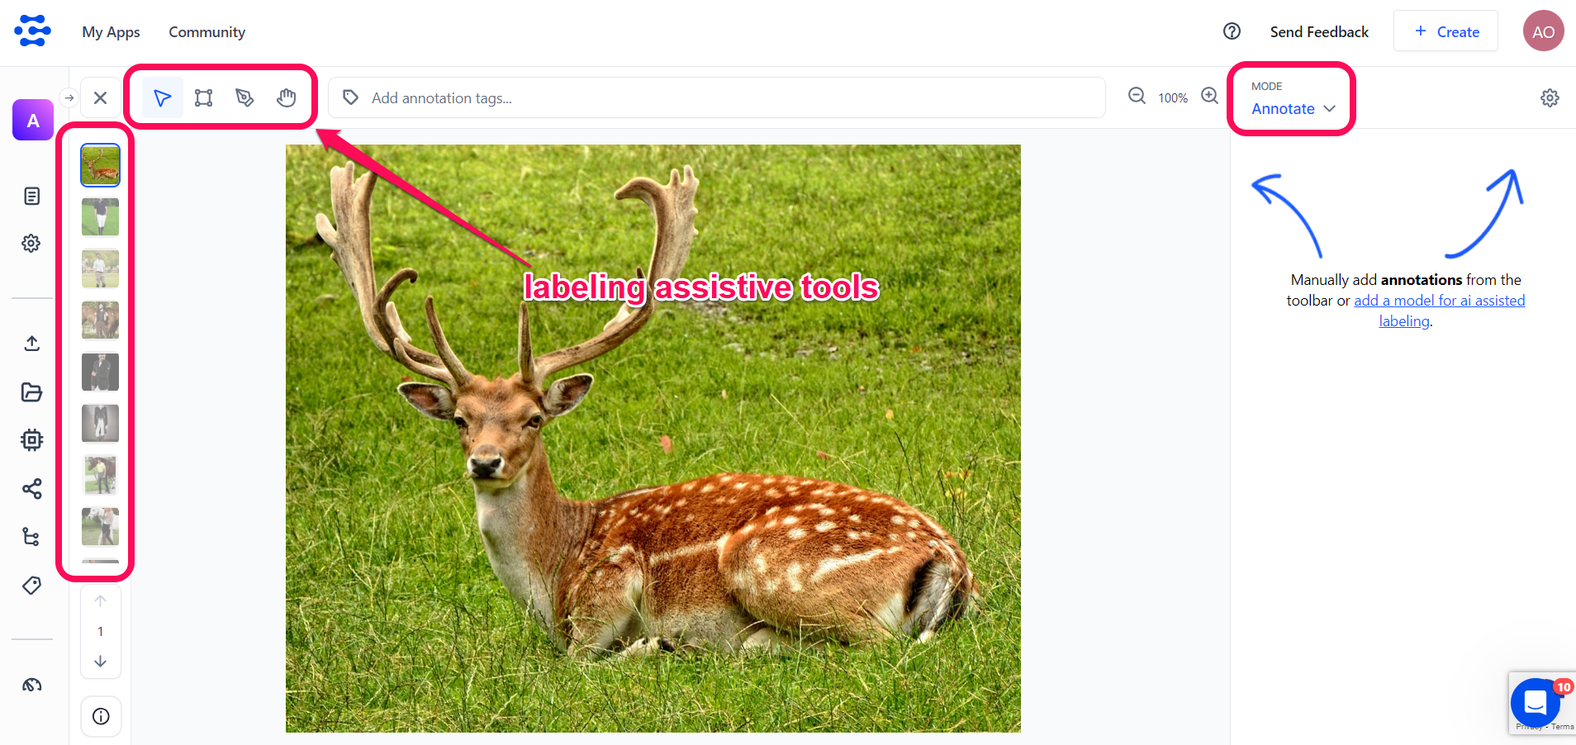
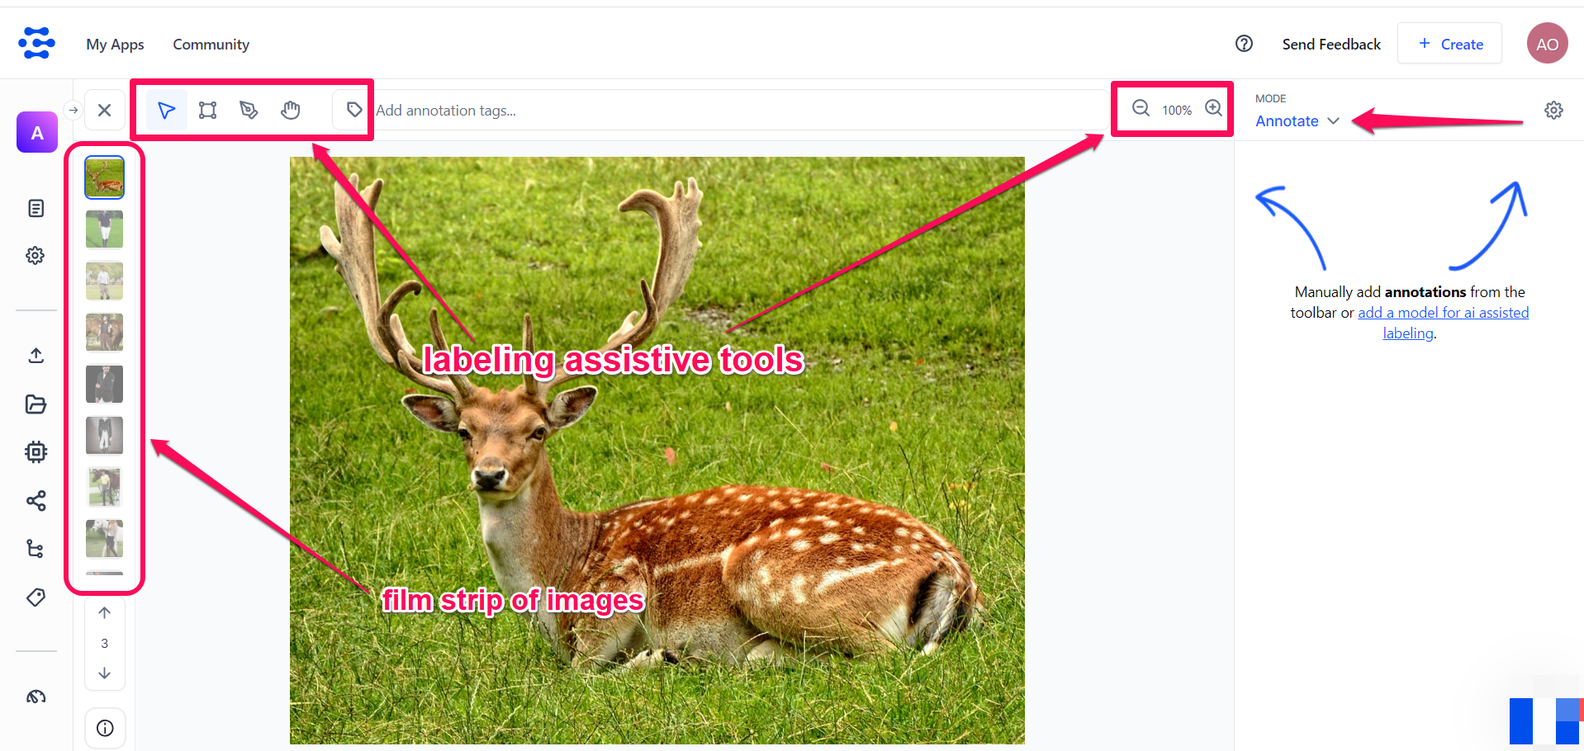
made some updates

diff --git a/docs/product-updates/changelog/release104.md b/docs/product-updates/changelog/release104.md
@@ -19,24 +19,74 @@ draft: true
 | :---: | :---: | :---: | :---: |
 | ![new-feature](/img/new_feature.jpg) |![improvement](/img/improvement.jpg) | ![bug](/img/bug.jpg) | ![enterprise](/img/enterprise.jpg) |
 
-
 ## Input-Manager
 
 |Status                                |Change                  |Details                    |
 |--------------------------------------|------------------------|---------------------------|
-|![new-feature](/img/new_feature.jpg) | Added symmetric and asymmetric search capabilities within the Input-Manager | <ul><li> Symmetric search allows users to find text inputs that closely resemble other text inputs, facilitating easy identification of similar content. On the other hand, asymmetric search empowers users to search for text inputs that effectively answer specific query questions, enhancing the precision and relevance of search results. </li></ul>|
+|![new-feature](/img/new_feature.jpg) | Added symmetric and asymmetric text search capabilities within the Input-Manager | <ul><li> Symmetric search allows users to find text inputs that closely resemble other text inputs, facilitating easy identification of similar content. On the other hand, asymmetric search empowers users to search for text inputs that effectively answer specific query questions, enhancing the precision and relevance of search results. </li></ul>|
+|![bug](/img/bug.jpg)|Fixed an issue with visual searches| <ul><li> Previously, visual searches for inputs on the Input-Manager were sometimes slow. We fixed it. </li></ul> |
+|![bug](/img/bug.jpg)|Fixed issues with concepts used for searching inputs on the Input-Manager|<ul><li>The tags or concepts used for performing searches had undergone visual changes. Additionally, it was not possible to delete tags individually; the only way was to remove the entire string in the search field. We fixed these issues.</li></ul>|
 
 ## New Published Models
 
 |Status                                |Change                  |Details                    |
 |--------------------------------------|------------------------|---------------------------|
-|![new-feature](/img/new_feature.jpg)|Published new models <br/><br/>_(Clarifai-hosted models are the ones we host within our Clarifai Cloud. Wrapped models are those hosted externally, but we deploy them on our platform using their third-party API keys)_|  <ul><li>Wrapped [Command-R+](https://clarifai.com/cohere/generate/models/command-r-plus), a highly efficient, multilingual, enterprise-grade LLM optimized for real-world business applications, boasting advanced RAG capabilities and a 128k-token context window. </li><li>Wrapped [Gemini 1.5 Pro](https://clarifai.com/gcp/generate/models/gemini-1_5-pro), a powerful, efficient LLM with 1 million long-context window, enabling advanced reasoning and comprehension across various data types. </li><li>Wrapped [Mixtral-8x22B](https://clarifai.com/mistralai/completion/models/mixtral-8x22B), the latest and largest Mixture of Expert LLM from Mistral AI. It's a state-of-the-art machine learning model using Mixture 8 of Experts (MoE) 22b models. </li><li>Wrapped [Qwen1.5-32B](https://clarifai.com/qwen/qwenLM/models/qwen1_5-32B-chat), a model that provides competitive AI performance with optimized efficiency, making it a strong choice for diverse, multilingual applications. </li><li>Clarifai-hosted [Gemma-1.1-7b-it](https://clarifai.com/gcp/generate/models/gemma-1_1-7b-it), a lightweight, decoder-only LLM trained on 6 trillion tokens of diverse text data, suitable for various text generation tasks with improved quality and safety measures. </li><li>Clarifai-hosted [Llama-3-8B-Instruct](https://clarifai.com/meta/Llama-3/models/Llama-3-8B-Instruct). Llama 3 instruction-tuned models are optimized for dialogue use cases and outperform many of the available open source chat LLMs on common industry benchmarks.  </li><li>Wrapped [Llama-3-70B-Instruct](https://clarifai.com/meta/Llama-3/models/llama-3-70B-Instruct), an advanced, scalable language model designed for diverse applications, offering state-of-the-art performance in coding, reasoning, and multi-use conversational capabilities. </li><li>Wrapped [Llama-3-70B](https://clarifai.com/meta/Llama-3/models/llama-3-70B). Llama-3 is a state-of-the-art large language model designed for enhanced reasoning and coding. It has a  broad application across multiple languages and tasks. </li></ul>| 
+|![new-feature](/img/new_feature.jpg)|Published new models <br/><br/>_(Clarifai-hosted models are the ones we host within our Clarifai Cloud. Wrapped models are those hosted externally, but we deploy them on our platform using their third-party API keys)_|  <ul><li>Wrapped [Command-R+](https://clarifai.com/cohere/generate/models/command-r-plus), a highly efficient, multilingual, enterprise-grade LLM optimized for real-world business applications, boasting advanced RAG capabilities and a 128k-token context window. </li><li>Wrapped [Gemini 1.5 Pro](https://clarifai.com/gcp/generate/models/gemini-1_5-pro), a powerful, efficient LLM with 1 million long-context window, enabling advanced reasoning and comprehension across various data types. </li><li>Wrapped [Mixtral-8x22B](https://clarifai.com/mistralai/completion/models/mixtral-8x22B), the latest and largest Mixture of Expert LLM from Mistral AI. It's a state-of-the-art machine learning model using Mixture 8 of Experts (MoE) 22b models. </li><li>Wrapped [Qwen1.5-32B](https://clarifai.com/qwen/qwenLM/models/qwen1_5-32B-chat), a model that provides competitive AI performance with optimized efficiency, making it a strong choice for diverse, multilingual applications. </li><li>Clarifai-hosted [Gemma-1.1-7b-it](https://clarifai.com/gcp/generate/models/gemma-1_1-7b-it), a lightweight, decoder-only LLM trained on 6 trillion tokens of diverse text data, suitable for various text generation tasks with improved quality and safety measures. </li><li>Clarifai-hosted [Llama-3-8B-Instruct](https://clarifai.com/meta/Llama-3/models/Llama-3-8B-Instruct). Llama 3 instruction-tuned models are optimized for dialogue use cases and outperform many of the available open source chat LLMs on common industry benchmarks.  </li><li>Wrapped [Llama-3-70B-Instruct](https://clarifai.com/meta/Llama-3/models/llama-3-70B-Instruct), an advanced, scalable language model designed for diverse applications, offering state-of-the-art performance in coding, reasoning, and multi-use conversational capabilities. </li><li>Wrapped [Llama-3-70B](https://clarifai.com/meta/Llama-3/models/llama-3-70B). Llama-3 is a state-of-the-art large language model designed for enhanced reasoning and coding. It has a  broad application across multiple languages and tasks. </li><li>Clarifai-hosted [LLaVA-v1.6-Mistral-7B](https://clarifai.com/liuhaotian/llava/models/llava-v1_6-mistral-7b), a high-performance, efficient, and cross-lingual large multimodal model, boasting state-of-the-art capabilities in visual reasoning, OCR, and zero-shot Chinese multimodal understanding. </li><li>Clarifai-hosted [LLaVA-1.5-7b](https://clarifai.com/liuhaotian/llava/models/llava-1_5-7b), a state-of-the-art language vision model that represents a significant advancement in the field of multimodal artificial intelligence. </li></ul>| 
+
+## New Published Templates
+
+|Status                                |Change                  |Details                    |
+|--------------------------------------|------------------------|---------------------------|
+| ![new-feature](/img/new_feature.jpg)  | Published new [app templates](https://docs.clarifai.com/clarifai-basics/app-templates)   | <ul><li>Published [Text Moderation Template](https://clarifai.com/clarifai/text-moderation), which provides ready-to-use workflows and models, leveraging NLP Models and LLMs to automatically monitor and detect inappropriate or harmful text content.</li><li>Published [Sentimental Analysis Template](https://clarifai.com/clarifai/sentiment-analysis), which provides a guide for sentimental analysis and comes with several ready-to-use sentimental analysis workflows and models dealing with different use cases, leveraging different NLP models and LLMs.</li><li>Published [Chatbot Template](https://clarifai.com/clarifai/chatbot-template), which allows you to develop AI chatbots swiftly using Clarifai LLMs, offering personalized assistance and integrating external data with RAG framework for enhanced capabilities. </li><li>Published [Image Moderation Template](https://clarifai.com/clarifai/image-moderation), which provides diverse AI-powered workflows for automatically filtering and categorizing inappropriate or harmful images based on various criteria. </li><li>Published [Content Generation Template](https://clarifai.com/clarifai/content-generation-template), which empowers users to efficiently create diverse, tailored text, from emails and blogs to social media content and stories, enhancing communication and creativity. </li><li> Published [Document Summarization Template](https://clarifai.com/clarifai/document-summarization), which is an app template for document summarization — supports 3 levels that start with Novice and end up with Expert.</li><li> Published [RAG Template](https://clarifai.com/clarifai/rag-template), which streamlines the creation of Retrieval-Augmented Generation (RAG) applications with Clarifai, enhancing LLMs with external knowledge for accurate, up-to-date information generation. </li></ul> |
+
+## Python SDK
+
+|Status                                |Change                  |Details                    |
+|--------------------------------------|------------------------|---------------------------|
+|  ![new-feature](/img/new_feature.jpg) | Added new features. Learn more about them [here](https://github.com/Clarifai/clarifai-python/blob/master/CHANGELOG.md).  | <ul><li>We added a flag to download a model. If the `export_dir` parameter is provided in `Model().export()`, the exported model will be saved in the specified directory. Otherwise, the export status will be shown. </li><li>Added support for Label IDs in Dataloaders (using the `label_ids` parameter) and `get_proto` functions in the Inputs class.</li><li>Implemented pagination feature in Search. Added `pagination` parameter in the `Search()` class and included `per_page` and `page_no` parameters in the `Search().query()` method.</li><li>Added algorithm parameter to `Search()`. </li><li>Added root certificate support to establish secure gRPC connections by including a `root_certificates_path` parameter in all relevant classes and authentication helpers. Also, updated gRPC to the latest version.</li><li>Added missing VERSION and `requirements.txt` files to `setup.py.`</li></ul> |
+| ![improvement](/img/improvement.jpg) | Made some improvements | <ul><li>Changed logger for `Inputs().upload_annotations` to display full details of failed annotations. </li><li>Updated the model upload CLI documentation.</li><li>Limited the maximum upload batch size for `Inputs().upload_inputs()` function. Also addressed the inconsistency in the model version ID parameter between `App.model()` and `Model()`.</li><li>Removed runners from the SDK.</li></ul> |
+| ![bug](/img/bug.jpg) | Fixed some bugs   | <ul><li>Fixed RAG upload bug by updating llama-index-core version to 0.10.24 in the `ImportError` message. </li> <li>Fixed a `RAG.setup()` bug where if a specific workflow was deleted and another workflow with the same ID was created, by adding a timestamp while creating a new prompter model.</li> <li>Fixed `RAG.upload()` to support uploading a folder of text files.</li> <li>Fixed the training status bug by removing the constraint of users specifying `model_type_id` for training_logs and instead using `load_info()` to get model version details.</li> <li>Fixed a create workflow bug that occurred due to the change in the model version ID parameter.</li> <li>Fixed unnecessary infra alerts by adding a wait time before deleting a model in model training tests.</li> </ul>  |
+
+
+## Node SDK
+
+|Status                                |Change                  |Details                    |
+|--------------------------------------|------------------------|---------------------------|
+| ![new-feature](/img/new_feature.jpg) | Added some features | <ul><li> Added a new `Dataset` class with several methods for handling datasets, including creating and deleting versions, listing versions, and uploading data from a folder or a CSV file.</li><li> Added several new methods to the `Input` class for handling inputs, including methods for bulk uploading, waiting for inputs, deleting failed inputs, and retrying uploads.</li><li>Added several new methods and properties to the `Search` class, including support for different search algorithms and metrics, and improved handling of queries and pagination.</li></ul> |
+| ![improvement](/img/improvement.jpg) | Made an improvement| <ul><li> Since the `uuidv4` package has been deprecated in npm, we replaced it with the recommended `uuid` package.</li></ul> |
 
 ## Models
 
 |Status                                |Change                  |Details                    |
 |--------------------------------------|------------------------|---------------------------|
 |![improvement](/img/improvement.jpg)| Enabled deletion of associated model assets when removing a model annotation| <ul><li>Now, when deleting a model annotation, the associated model assets are also marked as deleted.</li></ul> |
+
+## Community
+
+|Status                                |Change                  |Details                    |
+|--------------------------------------|------------------------|---------------------------|
+| ![improvement](/img/improvement.jpg) | Added ability to browse the resources in a template  |<ul><li> You can now access a modal popup on a template’s overview page that allows you to easily view the resources available in it, including inputs, datasets, models, workflows, and modules.</li></ul>|
+| ![improvement](/img/improvement.jpg)| Introduced an easier way to add collaborators |<ul><li>We added an option to add app collaborators from the App Overview screen. </li></ul>|
+| ![improvement](/img/improvement.jpg) | Introduced underscores for creating an app ID  | <ul><li> You can now use underscores when creating an app ID. </li></ul> |
+|![improvement](/img/improvement.jpg)  | Moved app templates and starred apps to their own paths  |<ul><li> Previously, we implemented this as parameter filters. We relocated templates and starred filters to separate URLs. You can now access templates at `apps/templates` and starred apps at `apps/starred`.</li></ul>|
+|  ![improvement](/img/improvement.jpg) | Disabled **Use Model** button for models with no versions   |<ul><li>As it's not possible to send API calls to models with no versions, we've disabled the **Use Model** button if no version exists. Therefore, you'll need to create a version first before using a model. </li></ul>|
+|  ![improvement](/img/improvement.jpg)  |  Increased font size for various texts in mobile view |<ul><li> We enhanced the readability of texts in various areas, such as app IDs, user IDs, and field placeholders, by increasing their font size in mobile view.</li></ul>|
+| ![improvement](/img/improvement.jpg) |  Added resource pricing on the Model-Viewer page for some types of models |<ul><li> We added pricing information for these model types: `text-to-text`, `image-to-text`, and `multimodal-to-text`.  </li></ul>|
+|![bug](/img/bug.jpg)|Fixed an issue with filtering [templates](https://docs.clarifai.com/clarifai-basics/app-templates/) |<ul><li> Previously, when selecting a template from the app creation modal, toggling between the "All" and "Starred" menu bar options didn't function correctly. We fixed the issue. </li></ul>|
+|![bug](/img/bug.jpg)|Fixed an issue with excessively truncated model names|<ul><li>The long model names are now truncated less aggressively, particularly on desktop devices.</li></ul>|
+|![bug](/img/bug.jpg)|Fixed an issue with the app switcher feature for collaborators|The app switcher feature, located in the collapsible left sidebar, allows you to effortlessly switch between different apps. Clicking it reveals a drop-down menu displaying your own apps as well as those you have access to. <br/><br/> <ul><li>Previously, the app switcher feature produced an error for users in a collaborated app. We fixed this issue, and it now works as intended.</li></ul>|
+|![bug](/img/bug.jpg)|Fixed an issue with the browser's "Back" button during user onboarding |<ul><li> Previously, during user onboarding, the "Back" button didn't allow users to navigate from the Model-Viewer page back to the Community listing page. We fixed this issue. </li></ul>|
+|![bug](/img/bug.jpg)|Fixed an issue where modules’ IDs appeared in the collapsed sidebar|<ul><li> Previously, when you collapsed the left sidebar, the IDs of installed modules in your app could be visible there. We fixed the issue. </li></ul>|
+|![bug](/img/bug.jpg)| Fixed an issue where log-in steps sometimes resulted in a "page not found" error |<ul><li>Users can now log in without encountering any errors. </li></ul>|
+|![bug](/img/bug.jpg) | Fixed an issue with “Use Model” modal during the onboarding flow   | If you click the “Use Model” button on a Model-Viewer page, a modal will pop up with code snippets for using the model in a workflow. <br/><br/><ul><li>Previously, creating a workflow this way was not working properly during a user onboarding; it resulted in multiple redirects. We fixed the issue. </li></ul>|
+| ![bug](/img/bug.jpg)  |  Fixed an issue where some essential scopes were missing for collaborators |<ul><li> We fixed the issue where essential scopes were missing for collaborators, ensuring proper access to apps.  </li></ul>|
+
+## Organization Settings and Management
+
+|Status                                |Change                  |Details                    |
+|--------------------------------------|------------------------|---------------------------|
+|![improvement](/img/improvement.jpg)| Improved organization invitation emails  |<ul><li> We improved organization invitation emails by adding details of the person who sent the invitation. The email now includes their user ID and user name, which enhances the legitimacy of the invitation.</li></ul>|
+|![bug](/img/bug.jpg)|Fixed an issue where it was not possible to patch an app after transferring its ownership to an organization|<ul><li>Previously, if you transferred an app to an organization, you couldn't patch it. For example, you could not edit the org app’s description. We fixed it. </li></ul> |
 
 ## Input-Viewer
 
@@ -46,15 +96,18 @@ draft: true
 |![bug](/img/bug.jpg)|Fixed issues with renaming concepts in the Input-Viewer| While on the Input-Viewer screen, you can rename a concept listed in the right sidebar, which also establishes a relation for it.<br/><br/><ul><li>Previously, renaming a concept prevented you from using the **Filter by concept** field to search for the new name. We have fixed this issue, and you can now search for both the original concept and the new relation created for it.</li><li>Previously, when creating a new relation for a concept that already had a previous relation, the new relation could be added without removing the old one. We fixed this issue, and now, before creating new relations, old ones are removed automatically.</li> <li>We also fixed an issue with entering the same name of a concept. For example, previously, if you generated predictions from classifications — let’s say one of the predicted concepts is “sky.” If you edited “sky” to “wall,” a new relation was created. However, if you edited the concept name again to “sky,” a new relation was erroneously created. We fixed the issue, and now since the relation and the originally predicted concept are the same, we remove the “wall” relation.</li></ul> |
 |![bug](/img/bug.jpg)|Fixed an issue with the gearbox icon in the Input-Viewer|<ul><li>Previously, opening the gearbox popover, selecting a model or workflow, and then closing the popover resulted in the gearbox icon remaining gray, indicating that nothing was selected inside the popover. </li><li>We fixed the issue, and now the gearbox icon turns blue when an item is selected within its popover.</li></ul>|
 |![bug](/img/bug.jpg)|Fixed an issue with managing object-track annotations for video inputs on the Input-Viewer|<ul><li>Previously, the timeline next to the left of the scrollbar of a video input represented seconds instead of frames. We fixed the issue, and it now accurately represents frames, as intended. Additionally, we addressed an issue that prevented the slider from reaching the last frame of a video input.</li></ul>|
+| ![bug](/img/bug.jpg) |Fixed an issue with the canvas Zoom In/Out functionality on the Input-Viewer | <ul><li> Previously, it was extremely laggy and unusable when using the CMD/CTRL button with the mouse wheel up/down or when using a trackpad. Now, when the user presses the CMD/CTRL button and scrolls the mouse wheel up/down, the action is performed at a normal speed, depending on how the user is scrolling. </li> </ul>|
 
-
-## Input-Manager
-
-|Status                                |Change                  |Details                    |
-|--------------------------------------|------------------------|---------------------------|
-|![bug](/img/bug.jpg)|Fixed an issue with visual searches| <ul><li> Previously, visual searches for inputs on the Input-Manager was sometimes slow. We fixed it. </li></ul> |
-
+## Labeling Tasks
 
 |Status                                |Change                  |Details                    |
 |--------------------------------------|------------------------|---------------------------|
-|   |   |  |
+|![bug](/img/bug.jpg)|Fixed an issue with displaying concepts on the task listing page|<ul><li>A list of concepts is now visibly and correctly displayed within the task listing page.</li></ul>|
+|![bug](/img/bug.jpg)|Fixed an issue that caused the concept list to flicker|<ul><li>Previously, when creating a new labeling task, the concept list could flicker while scrolling to the bottom of the page with the concept list open. We fixed the issue.</li></ul>|
+|![bug](/img/bug.jpg)|Fixed an issue that caused the design to break when adding many collaborators|<ul><li>Previously, when attempting to add many collaborators while creating a new labeling task, the section for adding collaborators could break its design. We fixed the issue.</li></ul>|
+|![bug](/img/bug.jpg)|Fixed an issue where selecting a collaborator persisted the selection in the text field| <ul><li>Previously, when adding a collaborator while creating a new labeling task, their name could appear both in the select list and outside the text field, causing confusion, especially when attempting to remove the collaborator by clicking the **X** button. We fixed the issue, and now the added collaborator’s name no longer appears duplicated in the input field.</li></ul> |
+|![bug](/img/bug.jpg)|Fixed an issue with displaying more concepts when creating a new labeling task| <ul><li>Previously, clicking “show 50 more” in the concept select list resulted in nothing being loaded, preventing users from seeing the full list of concepts. We fixed this issue, and now the full list of concepts is loaded after clicking “show 50 more”.</li></ul> |
+|![bug](/img/bug.jpg)|Fixed an issue where changing the dataset while creating a new task did not update the task name |<ul><li>Now, on the task creation page, switching between different datasets correctly updates the task name field to match the currently selected dataset, unless the user has manually edited the field before.</li></ul>|
+|![bug](/img/bug.jpg)|Fixed an issue where a user was unable to proceed with task creation after selecting a dataset| <ul><li>Previously, if you selected “yes” in the auto annotation field, chose a dataset, and then clicked outside the field, you could encounter an error preventing you from proceeding with the task creation. We fixed this issue, and now after selecting a dataset, the task creation process proceeds smoothly without any errors.</li></ul> |
+|![bug](/img/bug.jpg)|Fixed an issue where the label/review buttons were breaking|<ul><li>The label/review buttons with percentage signs on the tasks listing page were not being displayed as intended. We fixed the issue.</li></ul>|
+

diff --git a/docs/portal-guide/workflows/base-workflows.md b/docs/portal-guide/workflows/base-workflows.md
@@ -3,6 +3,7 @@ description: >-
   Base workflows index your data and provide your app with a default knowledge
   base.
 sidebar_position: 3
+draft: true
 ---
 
 # Base Workflows
@@ -10,39 +11,90 @@ sidebar_position: 3
 **Base workflows index your data and provide your app with a default knowledge base**
 <hr />
 
-The base workflow acts as the default knowledge base for your app and provides the basic structure for indexing your data. It gives you a "head start" when working with your data—by pre-indexing your inputs for search and by providing a default embedding for your custom models.
+The base workflow acts as the default knowledge base for your app and provides the basic structure for indexing your data. It gives you a "head start" when working with your data — by pre-indexing your inputs for search and by providing a default embedding for your custom models.
 
-## How it works
+## How it Works
 
 Your base workflow makes your data sortable and searchable as soon as it is uploaded. When you add an input to your app, the base workflow of your app computes the outputs from the model(s) in that workflow and indexes those outputs.
 
-Those indexed outputs enable search and transfer-learn based training on top of the base workflow model(s).
+A base workflow usually contains [an embedding model](https://docs.clarifai.com/api-guide/predict/embeddings), which indexes the inputs. Those indexed outputs enable search and [transfer-learn](https://docs.clarifai.com/portal-guide/model/model-types/transfer-learning/) based training on top of the base workflow model(s).
 
-## How to choose a base workflow
+## How to Choose a Base Workflow
 
-You should go for a workflow that optimizes your custom model performance. For example, if you're training a custom model around food, you could choose the **Food** model as your **Base Workflow** to yield better results.
-
-You can choose a base workflow when [creating a new application](https://docs.clarifai.com/clarifai-basics/applications/create-an-application/). After selecting the primary input type for your app, the base workflow will be automatically selected for you—within the collapsible **Advanced Settings** field. 
+You can choose a base workflow when [creating a new application](https://docs.clarifai.com/clarifai-basics/applications/create-an-application/). After selecting the primary input type for your app, the base workflow will be automatically selected for you — within the collapsible **Advanced Settings** field. 
 
 Alternatively, you can select the one that aligns most with your specific use case from the dropdown list accessible when you click the workflows search box.
 
 ![choose base workflow](/img/community_2/base_workflow_choose.png)
 
-## How to change a base workflow
+## How to Change a Base Workflow
 
-You can also change the base workflow once your app is created. You can choose public workflows or workflows you've created in your app. 
+You can also change the base workflow once your app is created. You can choose a public workflow available in the Clarifai app [here](https://clarifai.com/clarifai/main/workflows) or a workflow you've created in your app. 
 
 To change it, go to your [**App Settings**](https://docs.clarifai.com/clarifai-basics/applications/application-settings#base-workflow) page and select the one you prefer from the list that drops down when you click the workflows search box. 
 
 After selecting your preferred base workflow, click the **Change Base Workflow** button.
 
-:::note
+:::caution reindexing
 
-Updating the base workflow will re-index your app, processing all inputs through the new base workflow. This may take some time, and could incur costs. You could avoid the costs by deleting all your inputs before updating the base workflow.
+- Updating the base workflow will reindex your app, processing all inputs through the new base workflow. This may take some time, and could incur costs. You could avoid the costs by deleting all your inputs before updating the base workflow.
+- During reindexing, existing data from the old base workflow isn't deleted. This means you can easily revert back to the old base workflow if needed.
 
 :::
 
 ![change base workflow](/img/community_2/base_workflow_change.png)
 
+## Base Workflows Use Cases
 
+You should go for a workflow that optimizes your custom model performance. For example, if you're training a custom model around food, you could choose the **Food** model as your **Base Workflow** to yield better results.
+
+Below is a table outlining the potential use cases for various base workflows. You can refer to this table to determine the workflow that best suits your needs.
+
+### Empty
+
+|Workflow                              |Use Case              |
+|--------------------------------------|------------------------|
+| [Empty](https://clarifai.com/clarifai/main/workflows/Empty) | Empty workflow for apps that do not need inputs to be indexed for search and/or transfer learning. For example, if the app is used for deep training and/or labeling, you can set the base workflow as **Empty** to speed up the input upload process; later, you can change to another workflow to index your app.  |
+
+### Text Workflows
+
+|Workflow                              |Use Case              |
+|--------------------------------------|------------------------|
+| [Text](https://clarifai.com/clarifai/main/workflows/Text) | A single-model workflow of text embedding model for general English text |
+| [BAAI-General-Embedding-Base-en](https://clarifai.com/clarifai/main/workflows/baai-general-embedding-base-en)  | A workflow for text search  |  
+| [Universal](https://clarifai.com/clarifai/main/workflows/Universal) | A universal workflow for text and image search |  
+| [Roberta-embedder](https://clarifai.com/clarifai/main/workflows/Roberta-embedder) | **No description provided**  |
+| [MSMARCO-Distilbert-Text-Search](https://clarifai.com/clarifai/main/workflows/msmarco-distilbert-text-search)  | Text search workflow for TREC (Text REtrieval Conference) 2022 |
+| [Text-Moderation](https://clarifai.com/clarifai/main/workflows/Text-Moderation)| A single-model text moderation workflow that combines classification and embedding functions to classify harmful text content |
+
+### Image Workflows
+
+|Workflow                              |Use Case              |
+|--------------------------------------|------------------------|
+|[Demographics](https://clarifai.com/clarifai/main/workflows/Demographics)  | Multi-model workflow that detects, crops, and recognizes demographic characteristics of faces. Visually classifies age, gender, and multi-culture  |  
+| [Universal](https://clarifai.com/clarifai/main/workflows/Universal) | A universal workflow for text and image search  |  
+| [Apparel](https://clarifai.com/clarifai/main/workflows/Apparel)  | **No description provided**   |  
+|[Face-V4](https://clarifai.com/clarifai/main/workflows/Face-V4) | **No description provided**  |  
+| [General-Detection](https://clarifai.com/clarifai/main/workflows/General-Detection) | A general image detection workflow that detects a variety of common objects, and enables visual search using general embeddings on detected regions  |
+| [OCR-Translation-English-Spanish](https://clarifai.com/clarifai/main/workflows/ocr-translation-english-spanish)| **No description provided**  |
+| [Face-Sentiment](https://clarifai.com/clarifai/main/workflows/Face-Sentiment)| Multi-model workflow that combines face detection and sentiment classification of 7 concepts: anger, disgust, fear, neutral, happiness, sadness, contempt, and surprise |
+| [Wedding](https://clarifai.com/clarifai/main/workflows/Wedding) | Visually classify wedding-related content and enable visual search using specific embeddings  |
+| [Food](https://clarifai.com/clarifai/main/workflows/Food)| A workflow that combines detection, classification, and embedding functions to visually classify food items and enable visual search using embeddings  |
+| [Moderation](https://clarifai.com/clarifai/main/workflows/Moderation) | An image moderation workflow that combines detection, classification, and embedding to classify harmful content and enable visual search using embeddings |
+| [Travel](https://clarifai.com/clarifai/main/workflows/Travel) | A workflow that combines detection, classification, and embedding to classify travel-related properties and items, and enable visual search using embeddings |
+| [Face](https://clarifai.com/clarifai/main/workflows/Face) | A workflow that combines detection, recognition, and embedding to generate face landmarks and enable visual search using detected faces' embeddings |
+| [General](https://clarifai.com/clarifai/main/workflows/General) | A general image workflow that combines detection, classification, and embedding to identify general concepts, including objects, themes, moods, etc. |
+| [Visual-Segmenter](https://clarifai.com/clarifai/main/workflows/Visual-Segmenter) | Generates image segmentation masks for concepts in an image  |
+| [Segmentation](https://clarifai.com/clarifai/main/workflows/segmentation)  | **No description provided**   |
+| [Person-Tracking](https://clarifai.com/clarifai/main/workflows/person-tracking)  | **No description provided** |
+| [Person-Tracking-Lite](https://clarifai.com/clarifai/main/workflows/person-tracking-lite)  | **No description provided** |
+| [Vehicle-Detection0](https://clarifai.com/clarifai/main/workflows/Vehicle-Detection0) | **No description provided**  |
+
+### Audio Workflows
+
+|Workflow                              |Use Case              |
+|--------------------------------------|------------------------|
+| [ASR-Sentiment](https://clarifai.com/clarifai/main/workflows/asr-sentiment)| Obtains the sentiment of an audio. Takes audio as input, runs an Audio Speech Recognition (ASR) model, and uses the resulting text as input to a text sentiment model |  
+|[Audio-Sentiment](https://clarifai.com/clarifai/main/workflows/audio-sentiment)  | Obtains the sentiment of an audio. Takes audio as input, runs an Audio Speech Recognition (ASR) model, and uses the resulting text as input to a text sentiment model  |
+| [ASR-Summarization](https://clarifai.com/clarifai/main/workflows/asr-summarization)| Summarize text from English audio |
 

diff --git a/docs/portal-guide/annotate/label-types.md b/docs/portal-guide/annotate/label-types.md
@@ -12,10 +12,10 @@ We support different types of labeling methods, each suited for different tasks 
 
 We provide the following label types for your images, videos, and texts:
 
-- **Classification** — categorizes images, videos, and texts into categories;
-- **Detection** — detects where an object of interest is and draws a bounding box around it;
-- **Segmentation** (polygons for segmentation) — outlines the exact shape or contour of the object;
-- **Masks** —  a type of image segmentation that defines the exact boundaries of an object at a pixel level. 
+- **Classification** — Categorizes images, videos, and texts into categories;
+- **Detection** — Detects where an object of interest is and draws a bounding box around it;
+- **Segmentation** (polygons for segmentation) — Outlines the exact shape or contour of the object;
+- **Masks** —  A type of image segmentation that defines the exact boundaries of an object at a pixel level. 
 
 You can use any of the labeling types to complete your tasks easily and quickly. These label types provide increasing levels of granularity to support the needs of your specific use case.
 
@@ -37,7 +37,13 @@ Here is an example:
 
 ![](/img/others-2/label-types-1.png)
 
-The page has several assistive tools to help you make the most of the labeling exercise. For example, on the top section, you can select an icon to label an input with bounding boxes, move an image around the workspace, or zoom an image in or out.
+The page has the following assistive tools to help you make the most of the labeling exercise:
+
+- **Select / Edit** — Use this tool to navigate and interact with the interface. You can use it to select already defined bounding boxes or polygons;
+- **Bounding Box** — Use this tool to draw a rectangle on an image to define a region of interest. It's useful for identifying objects in images;
+- **Polygon** — Use this tool to draw custom, multi-sided shapes on an image. It's ideal for annotating irregularly shaped areas or objects;
+- **Hand** — Use this tool to click and drag an image in order to pan or move it around the workspace. It's useful for examining different areas of a large or zoomed-in image without changing the zoom level; 
+- **Zoom** — Use this tool to zoom an image in or out. 
 
 The left sidebar shows a film strip of images you can scroll through to get the specific image you want to annotate. If you click any image on the sidebar, it'll appear on the main workspace.
 
@@ -97,7 +103,7 @@ The detection label type lets you identify the objects in your inputs and also d
 
 ### Detection for Still Images
 
-To manually add detection labels on the Input-Viewer page, first click the **Bounding box** tool on the navigation bar.
+To manually add detection labels on the Input-Viewer page, first click the **Bounding Box** tool on the navigation bar.
 
 :::tip
 
@@ -131,7 +137,16 @@ The keyboard shortcut for the **Polygon** tool is **P**.
 
 Next, click the **Add annotation tags...** field and select the concept you want to use from the drop-down list — that is, if the concept is already existing in your app. If it's not already existing, you'll need to add it as described earlier. 
 
-Next, draw a contour as closely as possible around the image's region of interest. 
+Next, use the dots to draw a contour as closely as possible around the image's region of interest. 
+
+![](/img/others-2/label-types-8.png)
+
+
+:::tip
+
+After creating the initial shape by placing your dots, you'll need to close the loop. Simply click on the first dot you made again, and this action will close the loop, completing the polygon.
+
+:::
 
 You can add as many detection annotations as you want. The added annotations will appear in the **Add annotation tags...** field as well as on the right sidebar of the page. 
 

diff --git a/docs/api-guide/search/rank.md b/docs/api-guide/search/rank.md
@@ -278,12 +278,12 @@ If the input has been indexed, we can use the input ID. If there are multiple em
 
 ## Search by Text Similarity
 
-You can use texts to search through your collection of text. The text-to-text search will return ranked results based on how similar the results are to the text you provided in your query.
+You can use texts to search through your collection of texts. The text-to-text search will return ranked results based on how similar the results are to the text you provided in your query.
 
 :::tip 
 
-- Your inputs should be provided as texts. 
-- You should choose a workflow that includes a text embedder and a clusterer, such as the Language-Understanding workflow, as the Base Workflow for your application.  
+- To perform text-to-text searches, you could choose a workflow that includes a text embedder and a clusterer, such as the **Language-Understanding** workflow, as the [Base Workflow](https://docs.clarifai.com/portal-guide/workflows/base-workflows/) for your application.  
+- To perform text-to-image searches, you could choose the **Universal** base workflow, which allows you to use texts to search through your collection of images.
 
 :::
 
